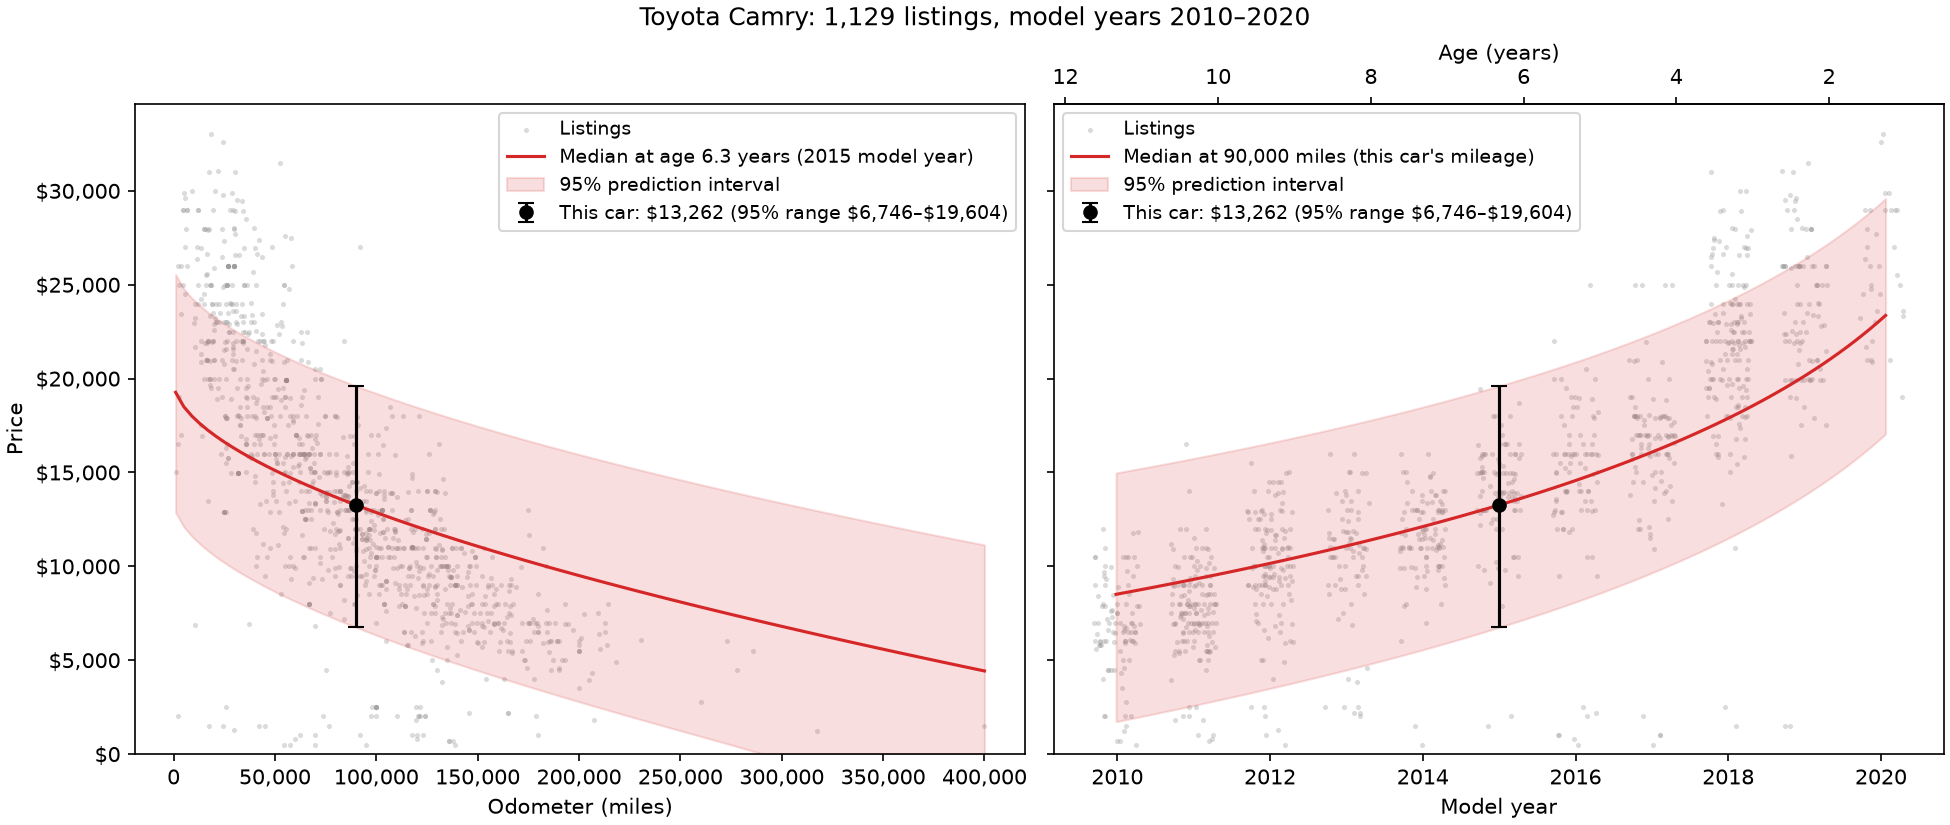
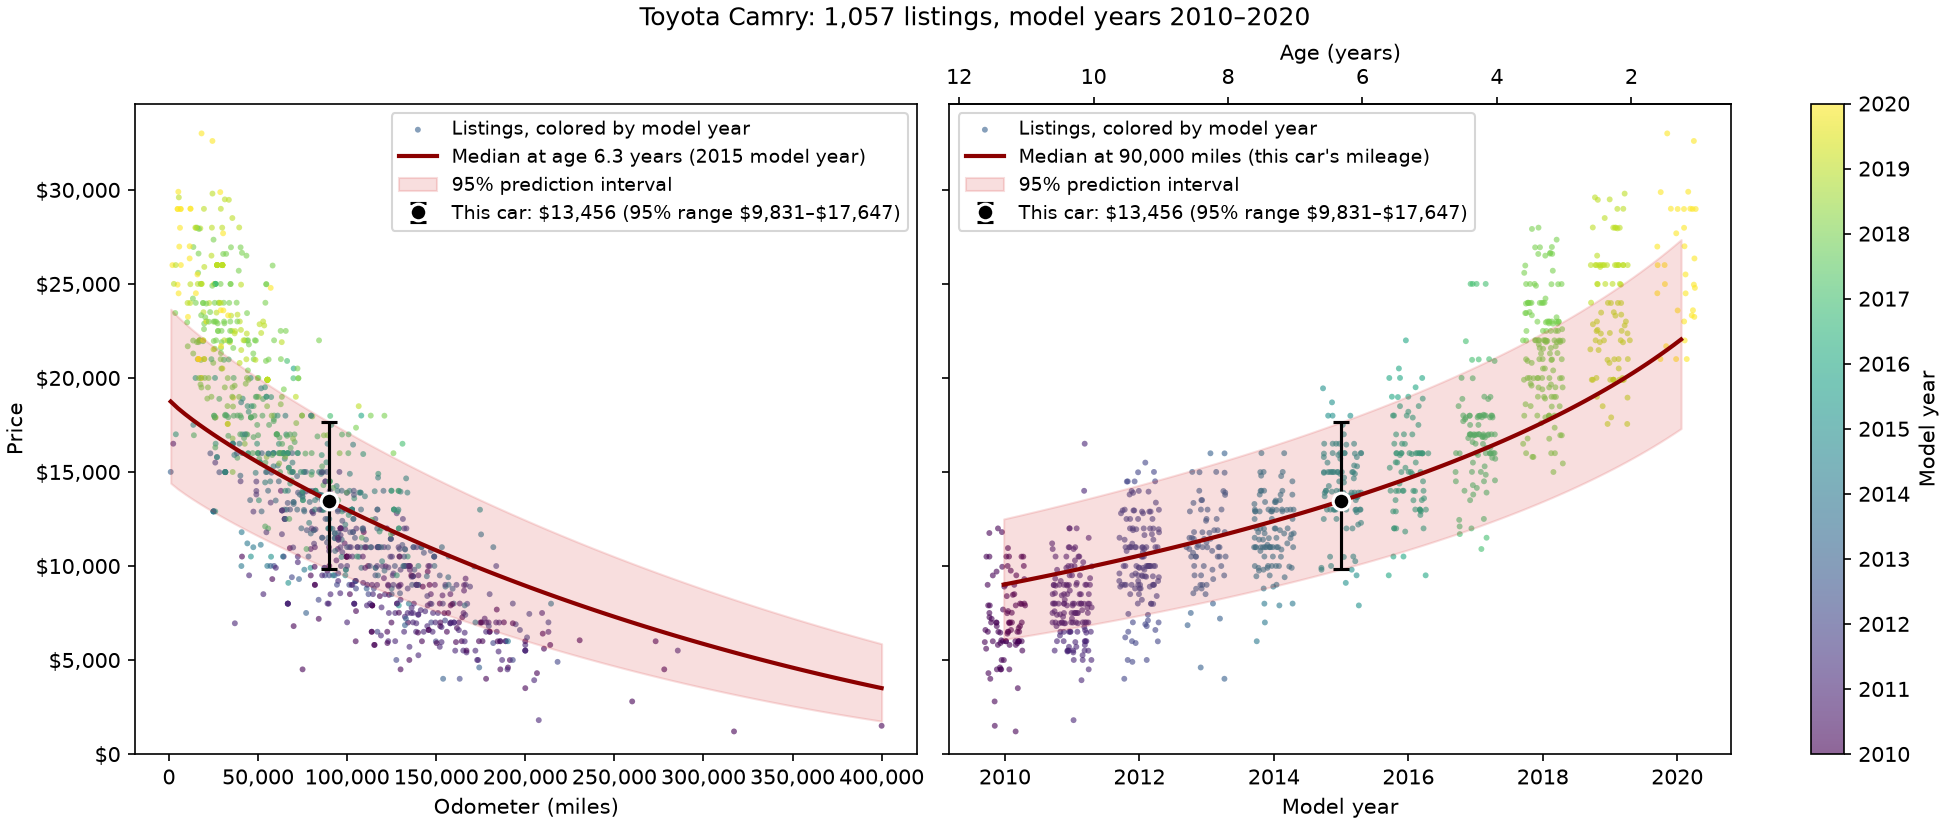
Drop outlier prices before fitting; color listings by model year

diff --git a/src/vehicle_pricing/plots.py b/src/vehicle_pricing/plots.py
@@ -8,8 +8,9 @@ then plt.show() in a script, or let a notebook display it.
 
 import numpy as np
 import pandas as pd
+from matplotlib.colors import Normalize
 from matplotlib.figure import Figure
-from matplotlib.ticker import StrMethodFormatter
+from matplotlib.ticker import MaxNLocator, StrMethodFormatter
 
 from vehicle_pricing.model import (
     DepreciationCurves,
@@ -19,7 +20,10 @@ from vehicle_pricing.model import (
 
 DOLLARS = StrMethodFormatter("${x:,.0f}")
 LISTING_STYLE = {"s": 6, "color": "0.6", "alpha": 0.35, "linewidths": 0}
-CURVE_COLOR = "tab:red"
+CURVE_COLOR = "darkred"  # dark enough to stand out over the coloured dots
+BAND_COLOR = "tab:red"
+YEAR_COLORMAP = "viridis"  # sequential: dark = older model years, yellow = newer
+YEAR_DOT_STYLE = {"s": 8, "alpha": 0.6, "linewidths": 0, "zorder": 1}
 JITTER_YEARS = 0.3  # spreads listings of one model year sideways so they don't overlap
 JITTER_SEED = 0
 
@@ -39,6 +43,9 @@ def plot_depreciation(
     plus a top axis showing age. If the listings show no clear age effect,
     the age curve is dashed and the panel says so.
 
+    In both panels the listings are coloured by model year, with one shared
+    colour bar. They are drawn first, so the curve, band and car stay on top.
+
     `title` names the vehicle; the number of listings and their model years
     are added. `alpha` defaults to the one the curves were computed with.
     """
@@ -49,17 +56,20 @@ def plot_depreciation(
 
     fig = Figure(figsize=(13, 5.5), layout="constrained")
     ax_miles, ax_years = fig.subplots(1, 2, sharey=True)
+    years = listings["year"]
+    dots = {"c": years, "cmap": YEAR_COLORMAP, "norm": Normalize(years.min(), years.max()),
+            "label": "Listings, colored by model year", **YEAR_DOT_STYLE}
 
     # Left: price vs. mileage, at the car's age.
     mileage = curves.mileage_curve.to_frame()
-    ax_miles.scatter(listings["odometer"], listings["price"], label="Listings", **LISTING_STYLE)
+    scatter = ax_miles.scatter(listings["odometer"], listings["price"], **dots)
     ax_miles.plot(
-        mileage["odometer"], mileage["price"], color=CURVE_COLOR,
+        mileage["odometer"], mileage["price"], color=CURVE_COLOR, linewidth=2, zorder=3,
         label=f"Median at age {curves.fixed_age:.1f} years ({car.model_year:.0f} model year)",
     )
     ax_miles.fill_between(
         mileage["odometer"], mileage["lower"], mileage["upper"],
-        color=CURVE_COLOR, alpha=0.15, label=band_label,
+        color=BAND_COLOR, alpha=0.15, zorder=2, label=band_label,
     )
     ax_miles.set(xlabel="Odometer (miles)", ylabel="Price")
     ax_miles.xaxis.set_major_formatter(StrMethodFormatter("{x:,.0f}"))
@@ -69,16 +79,16 @@ def plot_depreciation(
     jitter = np.random.default_rng(JITTER_SEED).uniform(
         -JITTER_YEARS, JITTER_YEARS, size=len(listings)
     )
-    ax_years.scatter(listings["year"] + jitter, listings["price"], label="Listings", **LISTING_STYLE)
+    ax_years.scatter(years + jitter, listings["price"], **dots)
     whose = "this car's mileage" if curves.odometer_is_cars else "median mileage"
     ax_years.plot(
-        ages["model_year"], ages["price"], color=CURVE_COLOR,
+        ages["model_year"], ages["price"], color=CURVE_COLOR, linewidth=2, zorder=3,
         linestyle="-" if curves.age_effect_clear else "--",
         label=f"Median at {curves.fixed_odometer:,.0f} miles ({whose})",
     )
     ax_years.fill_between(
         ages["model_year"], ages["lower"], ages["upper"],
-        color=CURVE_COLOR, alpha=0.15, label=band_label,
+        color=BAND_COLOR, alpha=0.15, zorder=2, label=band_label,
     )
     ax_years.set(xlabel="Model year")
     ax_years.xaxis.set_major_formatter(StrMethodFormatter("{x:.0f}"))
@@ -97,10 +107,11 @@ def plot_depreciation(
         yerr = [[car.price - car.lower], [car.upper - car.price]]
         label = (f"This car: ${car.price:,.0f} "
                  f"({1 - alpha:.0%} range ${car.lower:,.0f}–${car.upper:,.0f})")
-        ax_miles.errorbar(car.odometer, car.price, yerr=yerr, fmt="o", color="black",
-                          capsize=4, zorder=3, label=label)
-        ax_years.errorbar(car.model_year, car.price, yerr=yerr, fmt="o", color="black",
-                          capsize=4, zorder=3, label=label)
+        marker = {"yerr": yerr, "fmt": "o", "color": "black", "markersize": 8,
+                  "markeredgecolor": "white", "markeredgewidth": 1.5, "capsize": 4,
+                  "zorder": 4, "label": label}
+        ax_miles.errorbar(car.odometer, car.price, **marker)
+        ax_years.errorbar(car.model_year, car.price, **marker)
 
     ax_miles.set_ylim(bottom=0)
     ax_miles.yaxis.set_major_formatter(DOLLARS)
@@ -110,7 +121,9 @@ def plot_depreciation(
     below_note = {} if curves.age_effect_clear else {"bbox_to_anchor": (0, 0.9)}
     ax_years.legend(loc="upper left", fontsize=9, **below_note)
 
-    years = listings["year"]
+    colorbar = fig.colorbar(scatter, ax=[ax_miles, ax_years], label="Model year")
+    colorbar.locator = MaxNLocator(integer=True)  # whole years only, never "1998, 1998"
+    colorbar.update_ticks()
     span = f"{years.min()}" if years.min() == years.max() else f"{years.min()}–{years.max()}"
     fig.suptitle(f"{title}: {len(listings):,} listings, model years {span}")
     return fig

diff --git a/src/vehicle_pricing/model.py b/src/vehicle_pricing/model.py
@@ -27,6 +27,7 @@ from vehicle_pricing.schemas import MIN_LISTINGS, PriceResult, VehicleQuery
 DEFAULT_ALPHA = 0.05  # 95% prediction interval
 N_COEFS = 3  # b0, b1, b2
 MIN_AGE_SPREAD = 1.0  # years between the youngest and oldest listing needed to fit age
+OUTLIER_PASSES = 3  # most drop_outliers passes (fit, score, drop) before stopping
 CURVE_POINTS = 100  # points along each depreciation curve
 CLEAR_T_STAT = 2.0  # |t| at or above this counts as a clear age effect
 
@@ -160,6 +161,63 @@ def query_age(model: FittedModel, query: VehicleQuery) -> float:
     return max(model.ref_year - year, 0.0)
 
 
+def drop_outliers(
+    listings: pd.DataFrame, z: float = 3.5, max_passes: int = OUTLIER_PASSES
+) -> pd.DataFrame:
+    """Return a copy of the listings without those whose price is far off the fitted model.
+
+    The model is fitted to the listings. Each listing's residual r is
+    measured in transformed space (boxcox(price, lambda_y) minus the fitted
+    value), and scored with a robust z-score:
+
+        robust z = (r - median(r)) / (1.4826 * MAD),   MAD = median(|r - median(r)|)
+
+    Listings with |robust z| > z are dropped. (1.4826 * MAD equals the
+    standard deviation when residuals are normal, so z means roughly
+    "standard deviations".)
+
+    Why MAD-based: the mean and standard deviation of the residuals are
+    themselves dragged by the outliers they are meant to catch (a few $500
+    down-payment ads widen the standard deviation, so they look less
+    extreme). The median and MAD barely move.
+
+    Why relative, and not a price floor: a residual compares a listing with
+    what the model expects for its own mileage and age. $1,500 is wildly
+    low for a 2018 Camry with 40,000 miles but normal for a 1998 Civic with
+    200,000, so a fixed floor would either miss the first or throw away the
+    second. The same goes for too-high dealer prices.
+
+    Why several passes: the first fit is made with the outliers still in,
+    and they pull it (e.g. towards a lambda_y on which they look less
+    extreme), so some survive. Refitting without the worst ones and scoring
+    again catches more. It stops when a pass drops nothing, or after
+    max_passes, so it can't keep eating into real listings.
+
+    If MAD is 0 (most residuals identical), z can't be computed and that
+    pass drops nothing. fit_model's errors (too few listings, no age
+    spread) are raised as they are.
+    """
+    kept = listings
+    for _ in range(max_passes):
+        within = _within_robust_z(kept, z)
+        if within.all():
+            break
+        kept = kept[within]
+    return kept.copy()
+
+
+def _within_robust_z(listings: pd.DataFrame, z: float) -> np.ndarray:
+    """One pass of drop_outliers: True for listings with |robust z| <= z."""
+    model = fit_model(listings)
+    fitted = _model_design(model, listings["odometer"], listings["age"]) @ _coefs(model)
+    resid = boxcox(np.asarray(listings["price"], dtype=float), model.lambda_y) - fitted
+    centre = np.median(resid)
+    mad = np.median(np.abs(resid - centre))
+    if mad == 0:
+        return np.ones(len(listings), dtype=bool)
+    return np.abs((resid - centre) / (1.4826 * mad)) <= z
+
+
 def predict_price(
     model: FittedModel, query: VehicleQuery, alpha: float = DEFAULT_ALPHA
 ) -> PriceResult:
@@ -194,8 +252,8 @@ def predict_interval(
     odometer, age = np.broadcast_arrays(
         np.asarray(odometer, dtype=float), np.asarray(age, dtype=float)
     )
-    x0 = _design(boxcox(odometer, model.lambda_x), boxcox(age + 1, model.lambda_age))
-    y_hat = x0 @ np.array([model.b0, model.b1, model.b2])
+    x0 = _model_design(model, odometer, age)
+    y_hat = x0 @ _coefs(model)
     half_width = _half_width(
         x0, np.array(model.xtx_inv), model.resid_se, model.n - N_COEFS, alpha
     )
@@ -383,6 +441,18 @@ def _half_width(
     """
     leverage = np.einsum("...i,ij,...j->...", x0, xtx_inv, x0)
     return stats.t.ppf(1 - alpha / 2, dof) * resid_se * np.sqrt(1 + leverage)
+
+
+def _model_design(model: FittedModel, odometer: ArrayLike, age: ArrayLike) -> np.ndarray:
+    """Design rows [1, boxcox(odometer, lambda_x), boxcox(age + 1, lambda_age)] for a fitted model."""
+    odometer = np.asarray(odometer, dtype=float)
+    age = np.asarray(age, dtype=float)
+    return _design(boxcox(odometer, model.lambda_x), boxcox(age + 1, model.lambda_age))
+
+
+def _coefs(model: FittedModel) -> np.ndarray:
+    """The coefficients [b0, b1, b2] as an array."""
+    return np.array([model.b0, model.b1, model.b2])
 
 
 def _design(*predictors: np.ndarray) -> np.ndarray:

diff --git a/make_baseline.py b/make_baseline.py
@@ -5,12 +5,12 @@
     python make_baseline.py --offline  # only baseline_offline.txt (no API key needed)
 
 Online: each description goes through the same steps as main.py:
-parse_description() (calls Claude), then filter_listings(), fit_model() and
-predict_price(). Prices are written unrounded.
+parse_description() (calls Claude), then filter_listings(), drop_outliers(),
+fit_model() and predict_price(). Prices are written unrounded.
 
 Offline: the parsed queries in OFFLINE_QUERIES skip parse_description() and go
-straight into filter_listings(), fit_model() and predict_price(), with no call
-to Claude. They should match what Claude parsed in the online run; the online
+straight into filter_listings(), drop_outliers(), fit_model() and
+predict_price(), with no call to Claude. They should match what Claude parsed in the online run; the online
 run flags any difference.
 """
 
@@ -18,7 +18,13 @@ import sys
 from pathlib import Path
 
 from vehicle_pricing.data import comparison_years, filter_listings, load_data
-from vehicle_pricing.model import depreciation_curves, fit_model, predict_price, query_age
+from vehicle_pricing.model import (
+    depreciation_curves,
+    drop_outliers,
+    fit_model,
+    predict_price,
+    query_age,
+)
 from vehicle_pricing.schemas import VehicleQuery
 
 ROOT = Path(__file__).parent
@@ -49,7 +55,17 @@ OFFLINE_QUERIES = {
 }
 
 
-def format_result(description, query, rows_after_cleaning, fit):
+def fit_listings(vehicles, query):
+    """Filter, drop outlier prices, and fit: the same pipeline as main.py.
+
+    Returns (listings matched, outliers dropped, fitted model).
+    """
+    matched = filter_listings(vehicles, query)
+    kept = drop_outliers(matched)
+    return len(matched), len(matched) - len(kept), fit_model(kept)
+
+
+def format_result(description, query, rows_after_cleaning, matched, dropped, fit):
     """One block of the baseline file. Floats use repr(), so they're unrounded.
 
     Without a mileage there's no price, so only the fit is recorded (main.py
@@ -61,7 +77,8 @@ def format_result(description, query, rows_after_cleaning, fit):
         f"parsed query: {query.model_dump(exclude_none=True)}",
         f"comparison years: {comparison_years(query)}",
         f"rows after cleaning: {rows_after_cleaning}",
-        f"listings matched: {fit.n}",
+        f"listings matched: {matched}",
+        f"outliers dropped: {dropped}",
         f"box-cox lambda_x (odometer): {fit.lambda_x!r}",
         f"box-cox lambda_age (age + 1): {fit.lambda_age!r}",
         f"box-cox lambda_y (price): {fit.lambda_y!r}",
@@ -95,8 +112,8 @@ def run_online():
         except ParseError as e:
             blocks.append(f"input: {description}\nPARSE ERROR: {e}")
             continue
-        fit = fit_model(filter_listings(vehicles, query))
-        block = format_result(description, query, len(vehicles), fit)
+        matched, dropped, fit = fit_listings(vehicles, query)
+        block = format_result(description, query, len(vehicles), matched, dropped, fit)
         if query != OFFLINE_QUERIES[description]:
             block += (
                 "\nNOTE: differs from the offline query "
@@ -114,9 +131,8 @@ def run_offline():
     blocks = ["Baseline: offline (no Claude; fixed parsed queries)"]
     for description in DESCRIPTIONS:
         query = OFFLINE_QUERIES[description]
-        subset = filter_listings(vehicles, query)
-        fit = fit_model(subset)
-        blocks.append(format_result(description, query, len(vehicles), fit))
+        matched, dropped, fit = fit_listings(vehicles, query)
+        blocks.append(format_result(description, query, len(vehicles), matched, dropped, fit))
 
     OFFLINE_FILE.write_text("\n\n".join(blocks) + "\n", encoding="utf-8")
     print(f"Wrote {OFFLINE_FILE}")

diff --git a/main.py b/main.py
@@ -4,7 +4,7 @@ import matplotlib.pyplot as plt
 
 from vehicle_pricing.agent import ParseError, parse_description
 from vehicle_pricing.data import check_manufacturer, comparison_years, filter_listings, load_data
-from vehicle_pricing.model import depreciation_curves, fit_model, predict_price
+from vehicle_pricing.model import depreciation_curves, drop_outliers, fit_model, predict_price
 from vehicle_pricing.plots import plot_depreciation, plot_residuals
 
 QUIT_WORDS = ("quit", "exit", "done", "stop")
@@ -43,7 +43,8 @@ def main():
         try:
             query = parse_description(text, previous)
             check_manufacturer(vehicles, query)
-            listings = filter_listings(vehicles, query)
+            matched = filter_listings(vehicles, query)
+            listings = drop_outliers(matched)  # fits once to find prices far off the model
             model = fit_model(listings)
             result = predict_price(model, query) if query.odometer is not None else None
             curves = depreciation_curves(model, query)
@@ -55,17 +56,20 @@ def main():
             continue
         previous = query
         years = describe_years(*comparison_years(query))
+        dropped = len(matched) - len(listings)
+        plural = "" if dropped == 1 else "s"
+        dropped_note = f" (dropped {dropped:,} unusual price{plural})" if dropped else ""
 
         if result is None:
             print(
                 "No mileage given, so no price estimate. "
-                f"Showing {model.n:,} listings ({years})."
+                f"Showing {model.n:,} listings ({years}){dropped_note}."
             )
         else:
             print(
                 f"Estimated price: ${result.predicted_price:,.0f} "
                 f"(95% range ${result.lower_bound:,.0f} to ${result.upper_bound:,.0f}), "
-                f"based on {result.n_listings:,} listings ({years})."
+                f"based on {result.n_listings:,} listings ({years}){dropped_note}."
             )
             if result.extrapolated:
                 print("Warning: that mileage or age is outside the range of the listings, "

diff --git a/tests/test_model.py b/tests/test_model.py
@@ -1,6 +1,7 @@
 """The prediction interval is built correctly and depreciation goes the right way."""
 
 import numpy as np
+import pandas as pd
 import pytest
 import scipy.stats as stats
 
@@ -8,6 +9,7 @@ from vehicle_pricing.data import vehicle_age
 from vehicle_pricing.model import (
     _half_width,
     depreciation_curves,
+    drop_outliers,
     fit_model,
     predict_interval,
     predict_price,
@@ -141,3 +143,29 @@ def test_age_effect_is_clear_on_fixture(camry_model):
 
     assert curves.age_effect_clear
     assert curves.age_t_stat < 0  # older means cheaper
+
+
+def test_drop_outliers_removes_planted_500_dollar_listings(camry_listings):
+    # Five "down-payment ads": real rows (spread over model years) re-priced at $500.
+    fake = camry_listings.iloc[[2, 11, 20, 29, 38]].assign(price=500.0)
+    fake.index = fake.index + 1000  # distinct labels, so we can tell them apart
+    listings = pd.concat([camry_listings, fake])
+
+    kept = drop_outliers(listings)
+
+    assert not kept.index.isin(fake.index).any()  # every fake one dropped
+    real_kept = kept.index.isin(camry_listings.index).sum()
+    assert real_kept >= 0.95 * len(camry_listings)
+
+
+def test_drop_outliers_keeps_everything_without_outliers(camry_listings):
+    # The fixture's exact price curve, with only +/-1% noise.
+    rng = np.random.default_rng(seed=2)
+    exact = (
+        30_000
+        * np.exp(-camry_listings["odometer"] / 150_000)
+        * np.exp(-0.08 * camry_listings["age"])
+    )
+    clean = camry_listings.assign(price=exact * rng.uniform(0.99, 1.01, size=len(exact)))
+
+    assert len(drop_outliers(clean)) == len(clean)

diff --git a/make_figures.py b/make_figures.py
@@ -10,7 +10,7 @@ from pathlib import Path
 
 from make_baseline import OFFLINE_QUERIES
 from vehicle_pricing.data import filter_listings, load_data
-from vehicle_pricing.model import depreciation_curves, fit_model
+from vehicle_pricing.model import depreciation_curves, drop_outliers, fit_model
 from vehicle_pricing.plots import plot_depreciation
 
 DOCS = Path(__file__).parent / "docs"
@@ -27,7 +27,7 @@ def main():
     DOCS.mkdir(exist_ok=True)
     for description, (title, filename) in FIGURES.items():
         query = OFFLINE_QUERIES[description]
-        listings = filter_listings(vehicles, query)
+        listings = drop_outliers(filter_listings(vehicles, query))  # same pipeline as main.py
         curves = depreciation_curves(fit_model(listings), query)
         path = DOCS / filename
         plot_depreciation(listings, curves, title=title).savefig(path, dpi=DPI)
